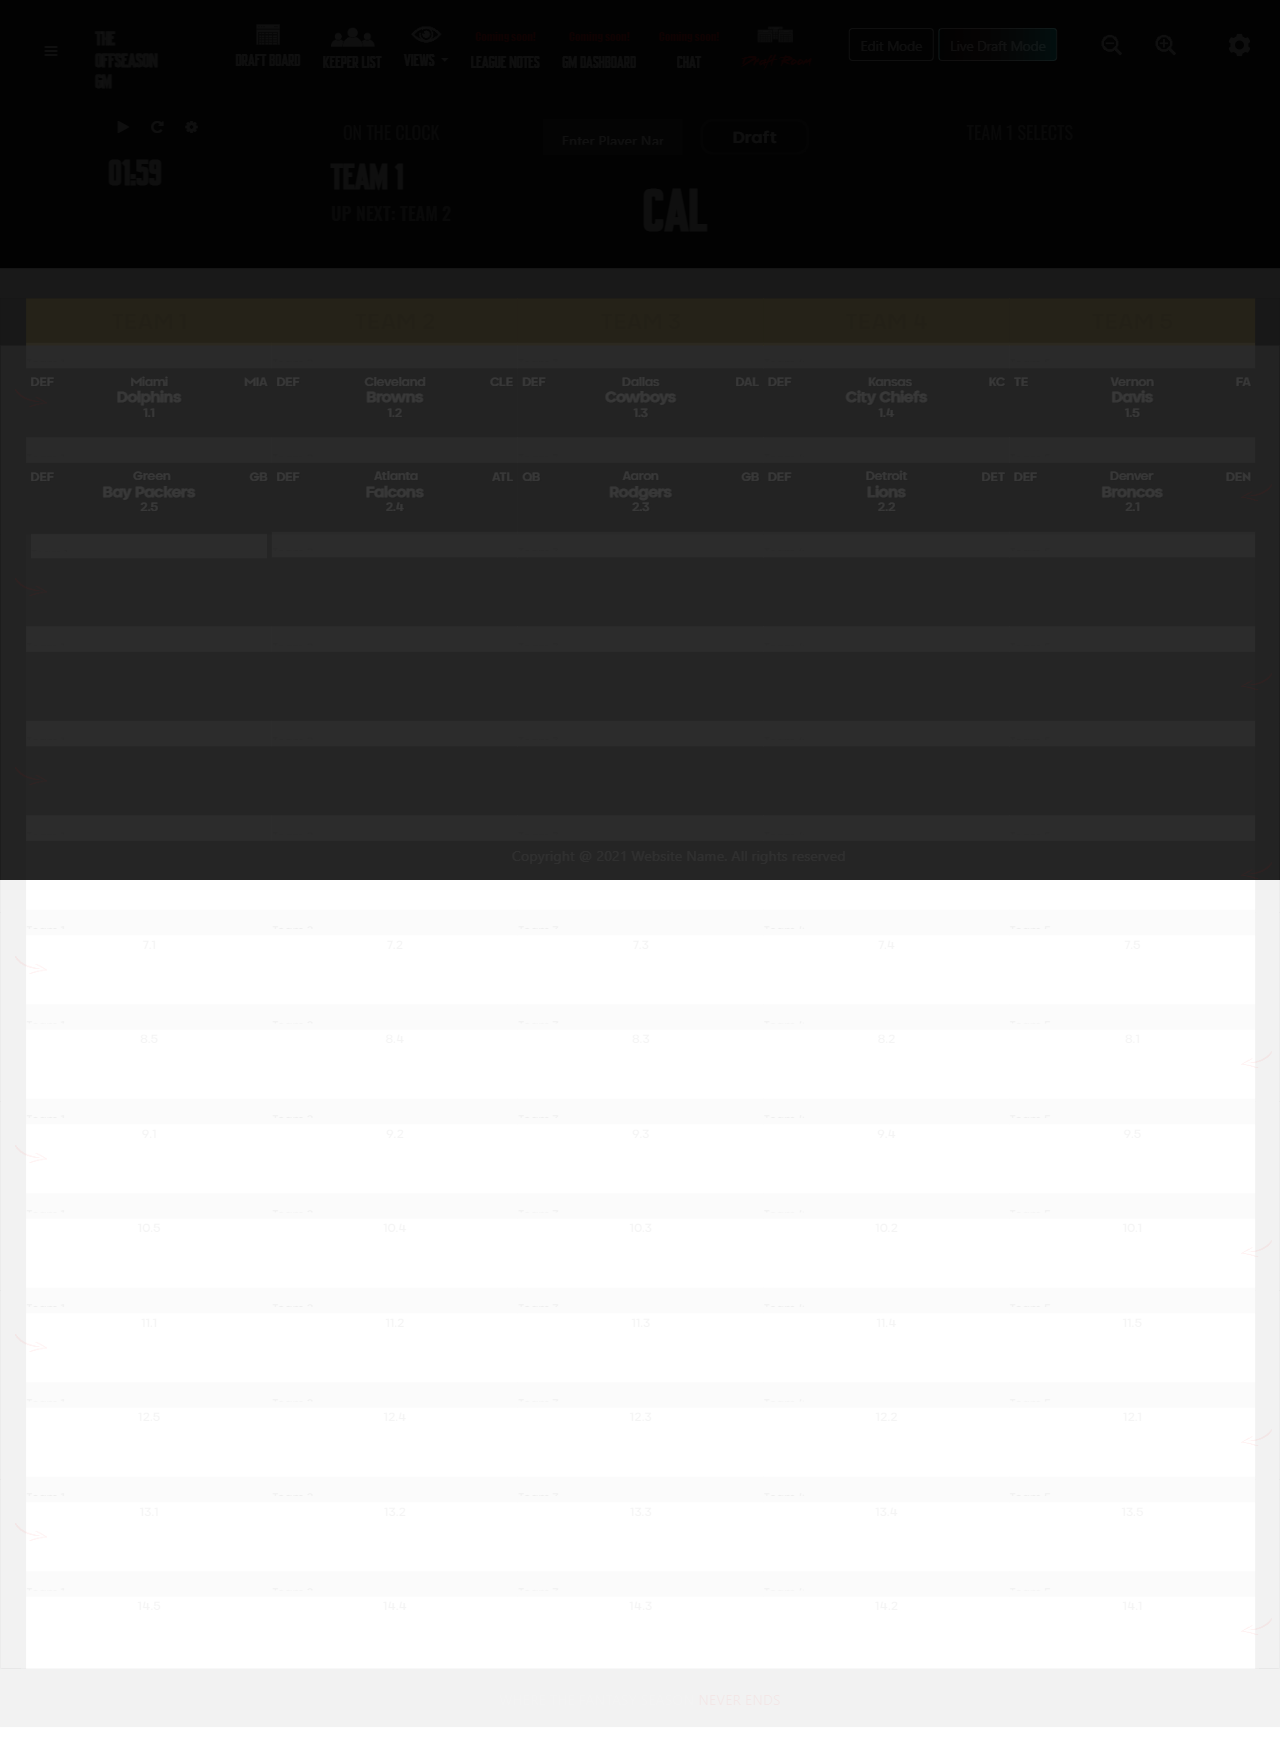
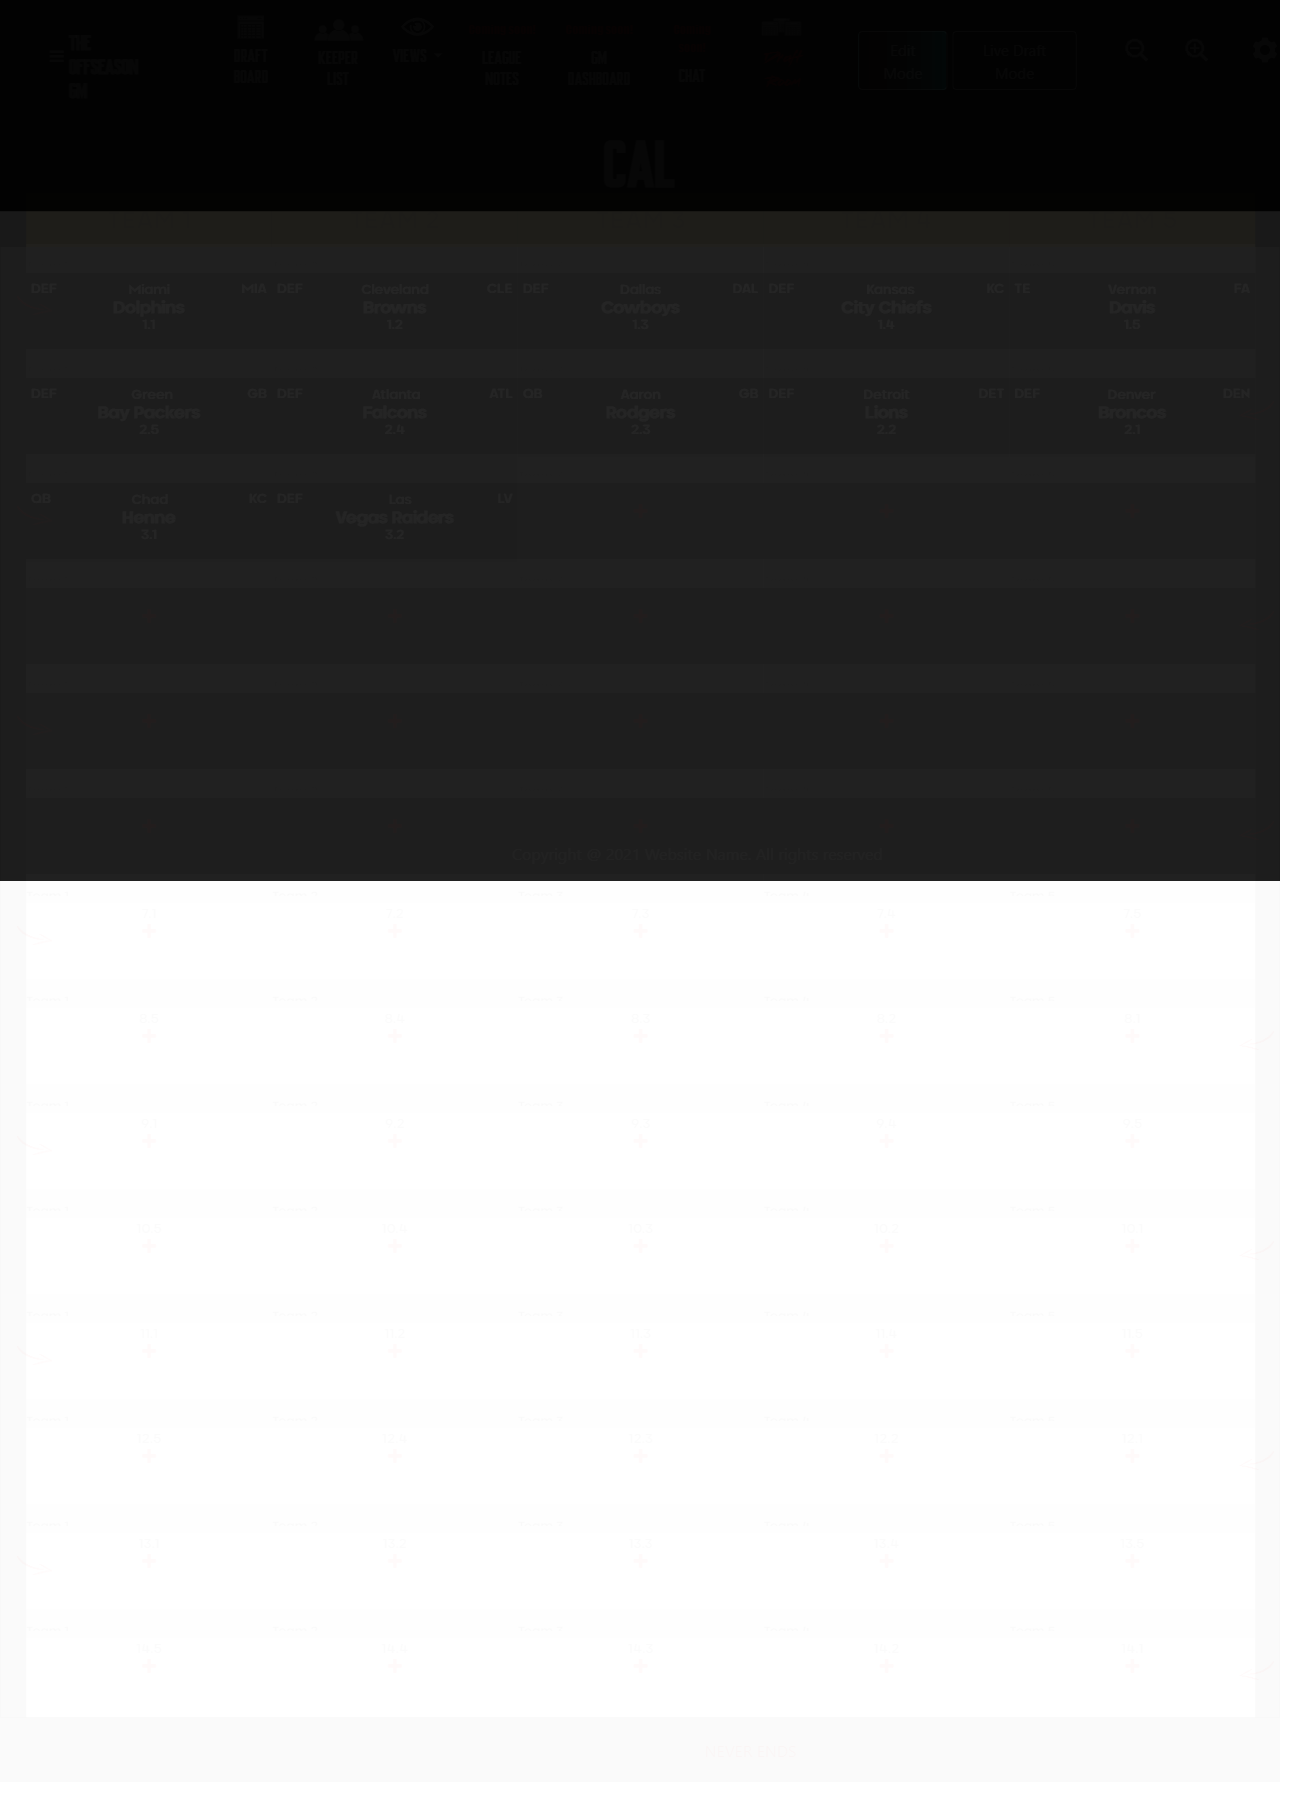
fantasy changes done

Changed region(s): [[0.0, 0.4655, 0.9953, 0.5276], [0.0, 0.0931, 0.9953, 0.1552], [0.9642, 0.2172, 0.9953, 0.2793]]

diff --git a/resources/views/league/draft.blade.php b/resources/views/league/draft.blade.php
@@ -429,41 +429,16 @@
                                                 <div>
                                                     <p>On The Clock</p>
                                                     @php
-                                                    if($leaguerecord)
-                                                    {
-                                                    $roundunber=$leaguerecord->round_order+1;
-                                                    $teamid=App\Models\LeagueRound::where('league_id',$leaguerecord->league_id)->whereNull('player_id')->orderby('id','asc')->limit(1)->first();
-                                                    if($teamid)
-                                                    {
-                                                    $teamname=\App\Models\LeagueTeam::where('id',$teamid->team_id)->where('league_id',$leaguerecord->league_id)->first();
-                                                    }
-                                                    $nextteamid=App\Models\LeagueRound::where('league_id',$leaguerecord->league_id)->whereNull('player_id')->orderby('id','asc')->limit(2)->get();
-                                                    if(isset($nextteamid) && count($nextteamid)>0)
-                                                    {
-                                                    if(isset($nextteamid[1]->team_id))
-                                                    {
-                                                    $nextteamid=$nextteamid[1]->team_id;
-                                                    }
-                                                    else{
-                                                    $nextteamid=$nextteamid[0]->team_id;
-                                                    }
-                                                    $nextteamname=\App\Models\LeagueTeam::where('id',
-                                                    $nextteamid)->where('league_id',$leaguerecord->league_id)->first();
-                                                    }
-                                                    }
-                                                    else
-                                                    {
                                                     $roundorderplus="1";
                                                     $roundunber="1";
-                                                    }
-
                                                     @endphp
                                                     <h3 style="font-size:30px;" id="team-round">
-                                                        @if(isset($teamname)){{$teamname->team_name}}@else{{'Team '}}
-                                                        {{$roundunber}}@endif
+                                                         {{$ontheclockteam->team->team_name ?? ''}}
                                                     </h3>
                                                     <p class="upNext" id="upNext">Up Next:
-                                                        @if(isset($nextteamname)){{$nextteamname->team_name}}@else{{'Team '}}{{$roundorderplus ?? ""}}@endif
+                                                        @if(isset($nextteam[1]))
+                                                       {{$nextteam[1]->team->team_name ?? ''}}
+                                                       @endif
                                                     </p>
                                                 </div>
 
@@ -512,50 +487,14 @@
                                     <div class="col-lg-4">
                                         <div class="onTheClock" style="right: 100px !important;">
                                             <div>
-                                                @php
-                                                $playerdata=[];
-                                                if($leaguerecord)
-                                                {
-                                                $roundunber=$leaguerecord->round_order;
-                                                $roundorderplus=$leaguerecord->round_order+1;
-
-                                                $roundata=App\Models\LeagueRound::where('league_id',$leaguerecord->league_id)->whereNull('player_id')->orderby('id','asc')->limit(1)->first();
-                                                if(isset($rounddata) && count($roundata)>0)
-                                                {
-                                                $teamidd=\App\Models\LeagueRound::where('round_order',$roundata->round_order-1)->where('round_number',$roundata->round_number)->where('league_id',$leaguerecord->league_id)->first();
-                                                //dd($teamidd);
-                                                }
-
-                                                if(isset($teamidd->player_id))
-                                                {
-                                                $playerdata=\App\Models\Player::where('id',$teamidd->player_id)->first();
-                                                }
-                                                else
-                                                {
-                                                $playerdata='';
-                                                }
-
-                                                if(isset($teamidd->team_id))
-                                                {
-                                                $teamname=\App\Models\LeagueTeam::where('id',$teamidd->team_id)->where('league_id',$leaguerecord->league_id)->first();
-                                                }
-                                                }
-                                                else
-                                                {
-                                                $roundorderplus="1";
-                                                $roundunber="1";
-                                                }
-
-                                                @endphp
                                                 <p id="team-select">
-                                                    @if(isset($teamname)){{ $teamname->team_name}}@else{{'Team '}}
-                                                    {{$leaguerecord->round_order ?? ''}}@endif Selects
+                                                     {{ $leaguerecord->team->team_name ?? ''}} SELECTS
                                                 </p>
                                                 <p class="upNext" id="team-slect-fname" style="text-align: center;margin-bottom: 0px;">
-                                                    {{$playerdata->first_name ?? ''}}
+                                                    {{ $leaguerecord->player->first_name ?? ''}}
                                                 </p>
                                                 <h3 style="text-align: center;font-size:30px;" id="team-slect-lname">
-                                                    {{$playerdata->last_name ?? ''}}
+                                                    {{ $leaguerecord->player->last_name ?? ''}}
                                                 </h3>
                                             </div>
 

diff --git a/app/Http/Controllers/DraftController.php b/app/Http/Controllers/DraftController.php
@@ -44,7 +44,10 @@ class DraftController extends Controller
                 $roundsArr[$roundNumber][$subround] = $round;
                 $subround++;
             }
-            $leaguerecord = leagueRound::where(['league_id' => $id])->where('player_id', '!=', Null)->orderBy('id', 'DESC')->first();
+            $leaguerecord = leagueRound::with('team')->with('player')->where(['league_id' => $id])->where('player_id', '!=', Null)->orderBy('id', 'DESC')->first();
+            //ON THE CLOCK TEAM AND NEXT TEAM WORK HERE
+           $ontheclockteam=LeagueRound::with('team')->where('league_id',$leaguerecord->league_id)->whereNull('player_id')->orderby('id','asc')->limit(1)->first();
+           $nextteam=LeagueRound::with('team')->where('league_id',$leaguerecord->league_id)->whereNull('player_id')->orderby('id','asc')->limit(2)->get();
             $postioncolor=Roster::where('league_id',$id)->groupBy('position')->get();
             $colors=[];
             foreach($postioncolor as $color)
@@ -59,6 +62,8 @@ class DraftController extends Controller
                 'league_rounds' => $roundsArr,
                 'leaugeid' => $id,
                 'leaguerecord' => $leaguerecord,
+                'ontheclockteam'=>$ontheclockteam,
+                'nextteam'=>$nextteam,
                 'colors'=>$colors
             ]);
         }
